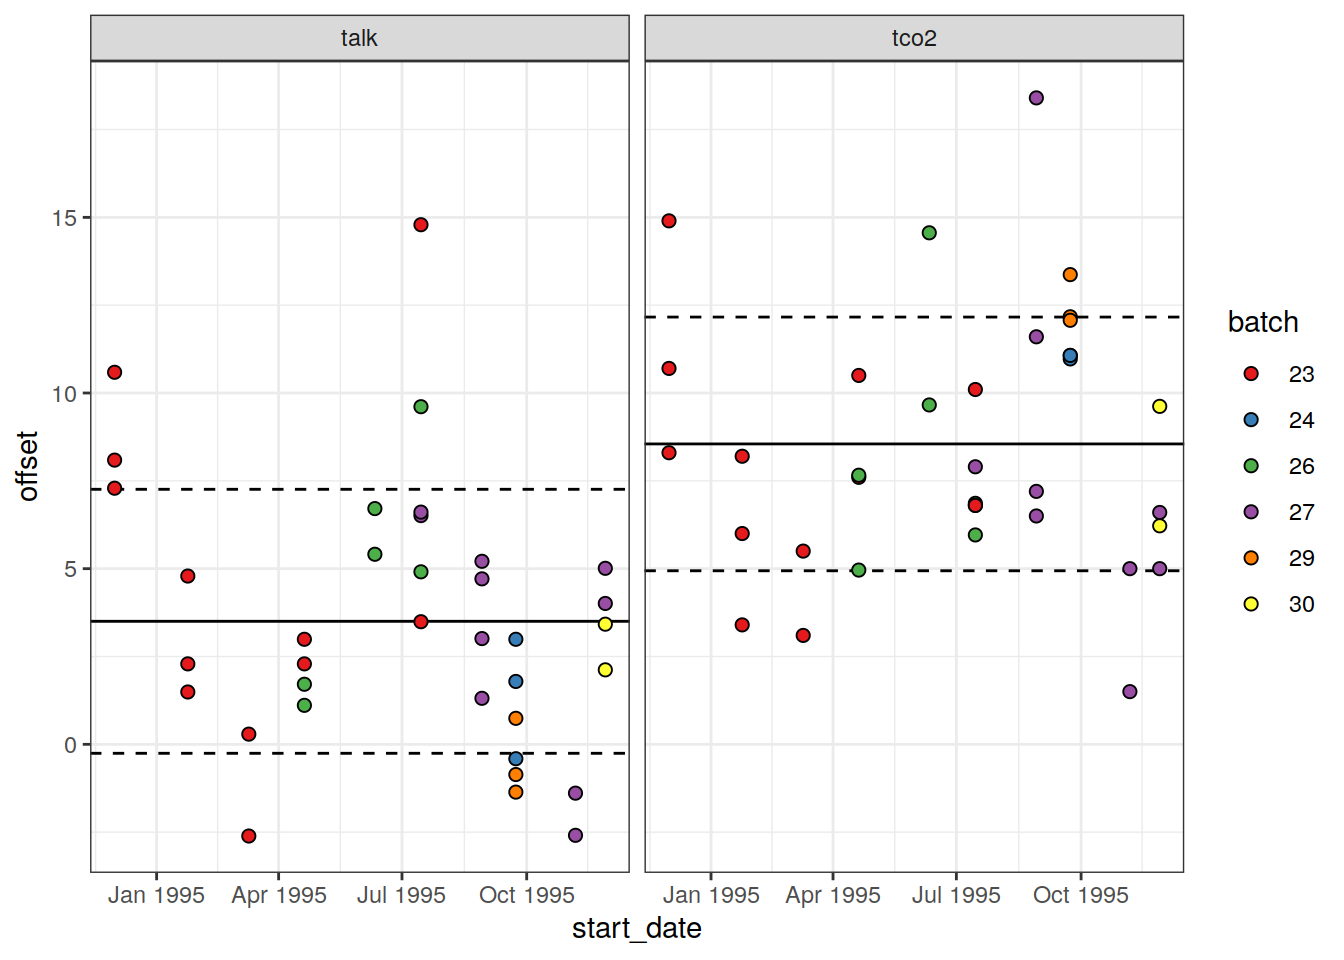
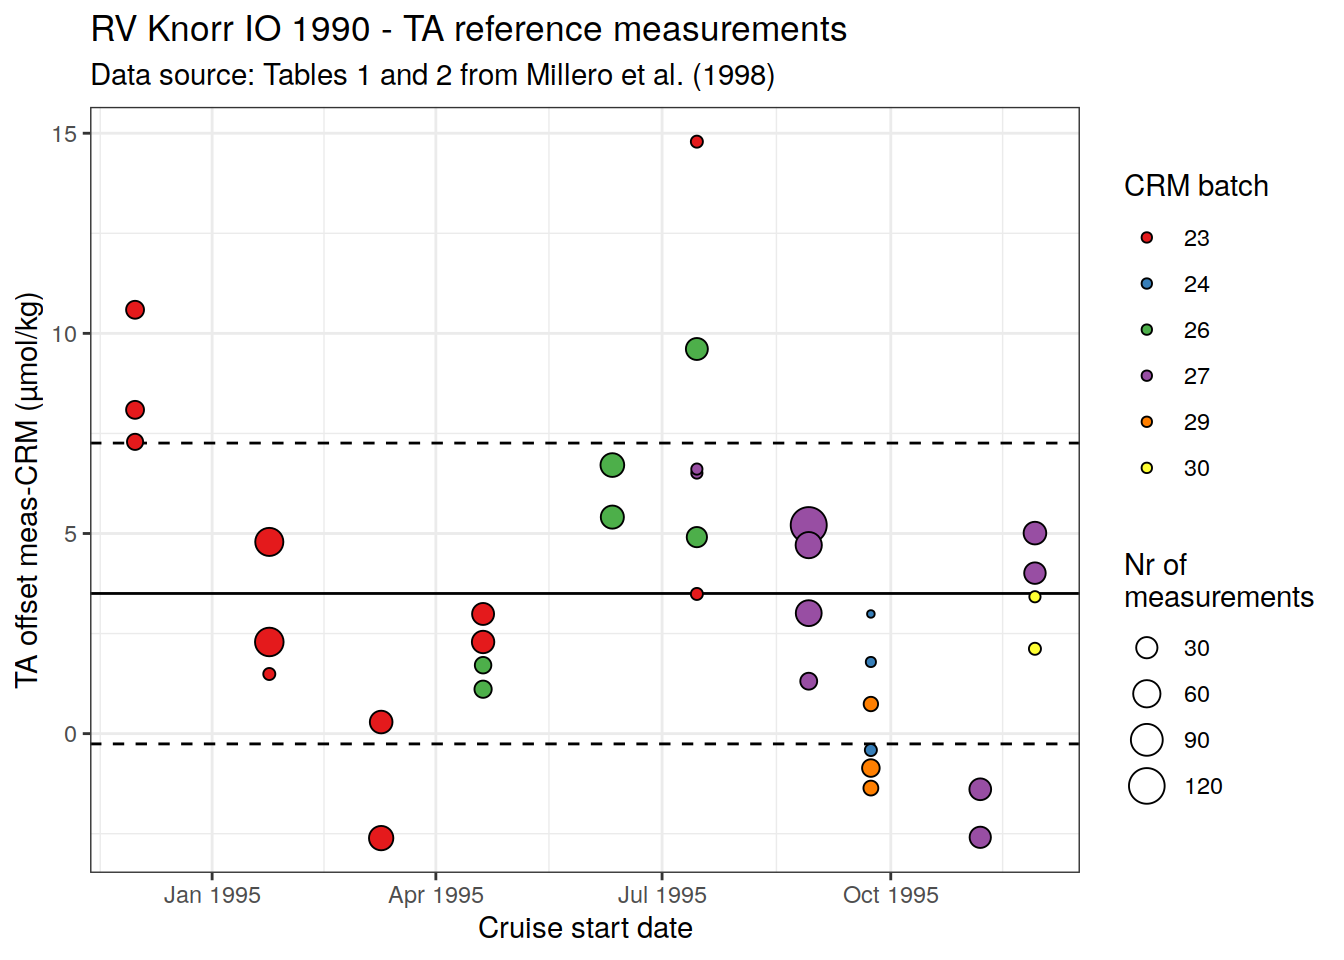
Build site.

diff --git a/docs/read_GLODAPv2_2021.html b/docs/read_GLODAPv2_2021.html
@@ -562,16 +562,16 @@ This reproducible <a href="http://rmarkdown.rstudio.com">R Markdown</a> analysis
 <div class="panel panel-default">
 <div class="panel-heading">
 <p class="panel-title">
-<a data-toggle="collapse" data-parent="#workflowr-checks" href="#strongRepositoryversionstrongahrefhttpsgithubcomjensdanielmuelleremlrobspreprocessingtree7802f47d46d69b9f516cd9cd21ef738eac5bde34targetblank7802f47a"> <span class="glyphicon glyphicon-ok text-success" aria-hidden="true"></span> <strong>Repository version:</strong> <a href="https://github.com/jens-daniel-mueller/emlr_obs_preprocessing/tree/7802f47d46d69b9f516cd9cd21ef738eac5bde34" target="_blank">7802f47</a> </a>
+<a data-toggle="collapse" data-parent="#workflowr-checks" href="#strongRepositoryversionstrongahrefhttpsgithubcomjensdanielmuelleremlrobspreprocessingtreebe2f94e6cdf948e4e720e156f1e48e6b55e2e75ftargetblankbe2f94ea"> <span class="glyphicon glyphicon-ok text-success" aria-hidden="true"></span> <strong>Repository version:</strong> <a href="https://github.com/jens-daniel-mueller/emlr_obs_preprocessing/tree/be2f94e6cdf948e4e720e156f1e48e6b55e2e75f" target="_blank">be2f94e</a> </a>
 </p>
 </div>
[2 lines of base64/hex data omitted]
 <div class="panel-body">
 <p>
 Great! You are using Git for version control. Tracking code development and connecting the code version to the results is critical for reproducibility.
 </p>
 <p>
-The results in this page were generated with repository version <a href="https://github.com/jens-daniel-mueller/emlr_obs_preprocessing/tree/7802f47d46d69b9f516cd9cd21ef738eac5bde34" target="_blank">7802f47</a>. See the <em>Past versions</em> tab to see a history of the changes made to the R Markdown and HTML files.
+The results in this page were generated with repository version <a href="https://github.com/jens-daniel-mueller/emlr_obs_preprocessing/tree/be2f94e6cdf948e4e720e156f1e48e6b55e2e75f" target="_blank">be2f94e</a>. See the <em>Past versions</em> tab to see a history of the changes made to the R Markdown and HTML files.
 </p>
 <p>
 Note that you need to be careful to ensure that all relevant files for the analysis have been committed to Git prior to generating the results (you can use <code>wflow_publish</code> or <code>wflow_git_commit</code>). workflowr only checks the R Markdown file, but you know if there are other scripts or data files that it depends on. Below is the status of the Git repository when the results were generated:
@@ -623,6 +623,40 @@ Message
 </tr>
 </thead>
 <tbody>
+<tr>
+<td>
+Rmd
+</td>
+<td>
+<a href="https://github.com/jens-daniel-mueller/emlr_obs_preprocessing/blob/be2f94e6cdf948e4e720e156f1e48e6b55e2e75f/analysis/read_GLODAPv2_2021.Rmd" target="_blank">be2f94e</a>
+</td>
+<td>
+jens-daniel-mueller
+</td>
+<td>
+2021-12-15
+</td>
+<td>
+analyse IO 1990 CRM data from Millero 1998 - TA only
+</td>
+</tr>
+<tr>
+<td>
+html
+</td>
+<td>
+<a href="https://rawcdn.githack.com/jens-daniel-mueller/emlr_obs_preprocessing/d454df103852aad797d8c063e0526c9b98a67647/docs/read_GLODAPv2_2021.html" target="_blank">d454df1</a>
+</td>
+<td>
+jens-daniel-mueller
+</td>
+<td>
+2021-12-15
+</td>
+<td>
+Build site.
+</td>
+</tr>
 <tr>
 <td>
 Rmd
@@ -4979,6 +5013,43 @@ IO_CRM_offset %&gt;%
   geom_histogram(binwidth = 1) +
   facet_wrap(~ parameter)</code></pre>
 <p><img src="figure/read_GLODAPv2_2021.Rmd/IO_1990_CRM-1.png" width="672" style="display: block; margin: auto;" /></p>
+<p>
+<button type="button" class="btn btn-default btn-xs btn-workflowr btn-workflowr-fig" data-toggle="collapse" data-target="#fig-IO_1990_CRM-1">
+Past versions of IO_1990_CRM-1.png
+</button>
+</p>
+<div id="fig-IO_1990_CRM-1" class="collapse">
+<div class="table-responsive">
+<table class="table table-condensed table-hover">
+<thead>
+<tr>
+<th>
+Version
+</th>
+<th>
+Author
+</th>
+<th>
+Date
+</th>
+</tr>
+</thead>
+<tbody>
+<tr>
+<td>
+<a href="https://github.com/jens-daniel-mueller/emlr_obs_preprocessing/blob/d454df103852aad797d8c063e0526c9b98a67647/docs/figure/read_GLODAPv2_2021.Rmd/IO_1990_CRM-1.png" target="_blank">d454df1</a>
+</td>
+<td>
+jens-daniel-mueller
+</td>
+<td>
+2021-12-15
+</td>
+</tr>
+</tbody>
+</table>
+</div>
+</div>
 <pre class="r"><code>IO_CRM_offset &lt;- IO_CRM_offset %&gt;% 
   filter(cell != &quot;All&quot;)
 
@@ -4989,26 +5060,67 @@ IO_CRM_offset_mean &lt;- IO_CRM_offset %&gt;%
   ungroup()
 
 IO_CRM_offset %&gt;%
-  filter(cell != &quot;All&quot;) %&gt;%
+  filter(parameter == &quot;talk&quot;) %&gt;%
   ggplot() +
-  scale_fill_brewer(palette = &quot;Set1&quot;) +
-  geom_hline(data = IO_CRM_offset_mean,
+  scale_fill_brewer(palette = &quot;Set1&quot;,
+                    name = &quot;CRM batch&quot;) +
+  geom_hline(data = IO_CRM_offset_mean %&gt;% filter(parameter == &quot;talk&quot;),
              aes(yintercept = offset_mean)) +
   geom_hline(
-    data = IO_CRM_offset_mean,
+    data = IO_CRM_offset_mean %&gt;% filter(parameter == &quot;talk&quot;),
     aes(yintercept = offset_mean - offset_sd),
     linetype = 2
   ) +
   geom_hline(
-    data = IO_CRM_offset_mean,
+    data = IO_CRM_offset_mean %&gt;% filter(parameter == &quot;talk&quot;),
     aes(yintercept = offset_mean + offset_sd),
     linetype = 2
   ) +
-  geom_point(aes(start_date, offset, fill = batch),
-             shape = 21,
-             size = 2) +
-  facet_wrap( ~ parameter)</code></pre>
+  geom_point(aes(start_date, offset, fill = batch, size=n),
+             shape = 21) +
+  scale_size(name = &quot;Nr of\nmeasurements&quot;) +
+  labs(x = &quot;Cruise start date&quot;,
+       y = &quot;TA offset meas-CRM (µmol/kg)&quot;,
+       title = &quot;RV Knorr IO 1990 - TA reference measurements&quot;,
+       subtitle = &quot;Data source: Tables 1 and 2 from Millero et al. (1998)&quot;)</code></pre>
 <p><img src="figure/read_GLODAPv2_2021.Rmd/IO_1990_CRM-2.png" width="672" style="display: block; margin: auto;" /></p>
+<p>
+<button type="button" class="btn btn-default btn-xs btn-workflowr btn-workflowr-fig" data-toggle="collapse" data-target="#fig-IO_1990_CRM-2">
+Past versions of IO_1990_CRM-2.png
+</button>
+</p>
+<div id="fig-IO_1990_CRM-2" class="collapse">
+<div class="table-responsive">
+<table class="table table-condensed table-hover">
+<thead>
+<tr>
+<th>
+Version
+</th>
+<th>
+Author
+</th>
+<th>
+Date
+</th>
+</tr>
+</thead>
+<tbody>
+<tr>
+<td>
+<a href="https://github.com/jens-daniel-mueller/emlr_obs_preprocessing/blob/d454df103852aad797d8c063e0526c9b98a67647/docs/figure/read_GLODAPv2_2021.Rmd/IO_1990_CRM-2.png" target="_blank">d454df1</a>
+</td>
+<td>
+jens-daniel-mueller
+</td>
+<td>
+2021-12-15
+</td>
+</tr>
+</tbody>
+</table>
+</div>
+</div>
 </div>
 <div id="crossover-checks" class="section level1" number="7">
 <h1 number="7"><span class="header-section-number">7</span> Crossover checks</h1>
